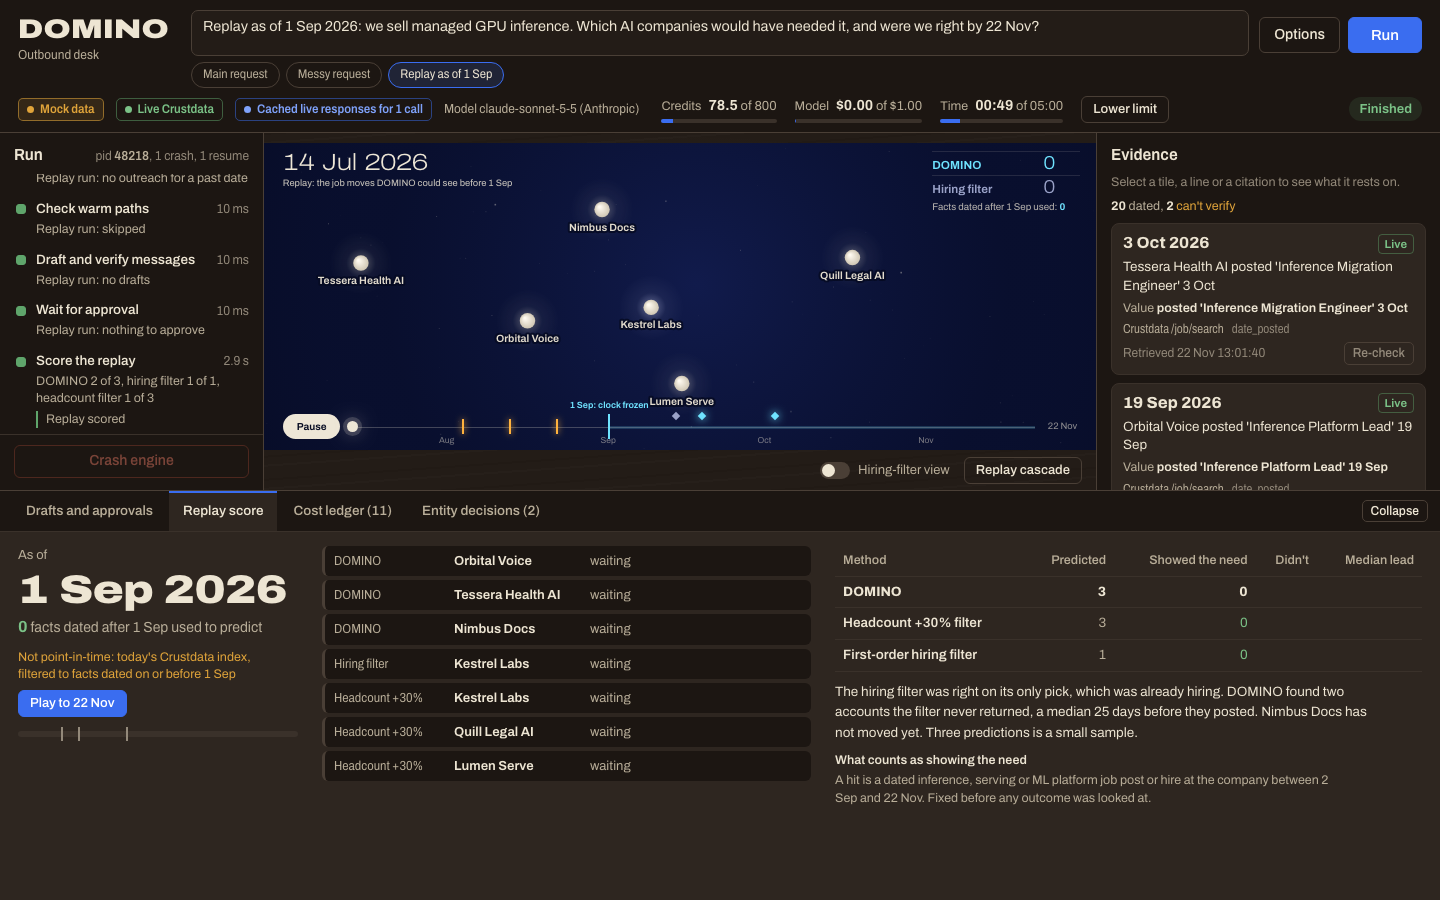
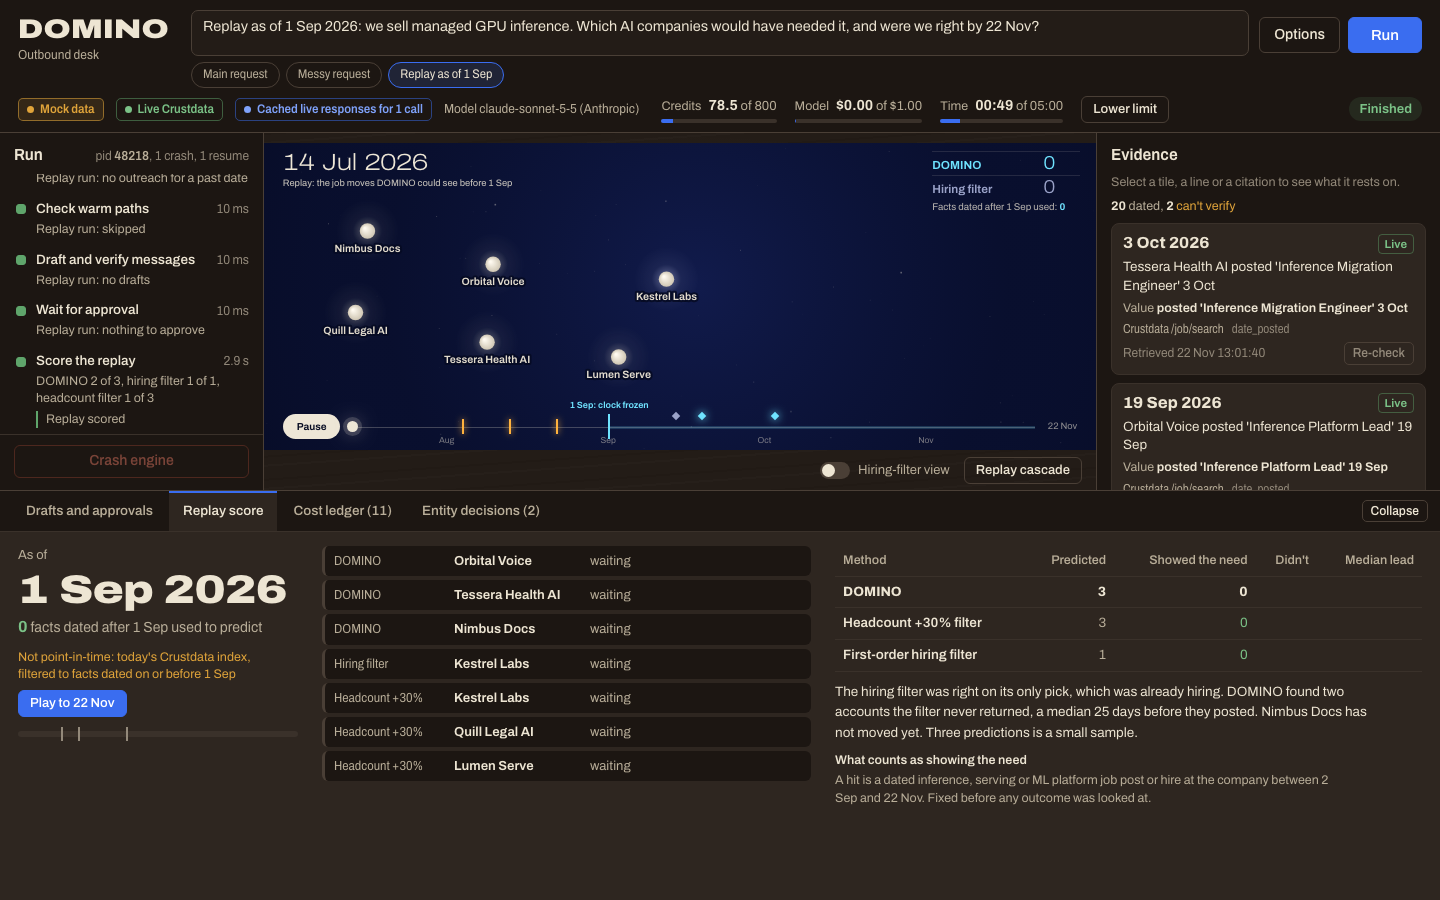
Talent flow: composed layout for the demo world in the app; hiring-filter view screenshot

diff --git a/web/src/centrepiece/flow/index.tsx b/web/src/centrepiece/flow/index.tsx
@@ -1,11 +1,13 @@
 import type { CentrepieceModule, CentrepieceProps } from '../contract.ts';
 import { TalentFlow } from './TalentFlow.tsx';
+import { FIXTURE_LAYOUT } from './fixture.ts';
 
 /** Talent-flow time-lapse: job moves fly between companies, drains crack the losing company, predictions snap solid. */
 export const flowCentrepiece: CentrepieceModule = {
   id: 'flow',
   label: 'Talent flow',
-  Component: (props: CentrepieceProps) => <TalentFlow {...props} />,
+  // Composed positions for the fictional demo world (fixture and web mock share ids); any other company gets the force layout.
+  Component: (props: CentrepieceProps) => <TalentFlow {...props} layoutHints={FIXTURE_LAYOUT} />,
 };
 
 export { TalentFlow } from './TalentFlow.tsx';

diff --git a/web/src/centrepiece/flow/model.ts b/web/src/centrepiece/flow/model.ts
@@ -286,6 +286,7 @@ function layout(cs: FlowCompany[], moves: FlowMove[], hints?: Record<string, { x
   const missing = cs.filter((c) => !hints?.[c.id]);
   cs.forEach((c) => { const h = hints?.[c.id]; if (h) { c.x = h.x; c.y = h.y; } });
   if (!missing.length) return;
+  if (missing.length < cs.length) hints = undefined;   // partial hints: lay everything out together
   const n = cs.length;
   cs.forEach((c, i) => {
     if (hints?.[c.id]) return;
